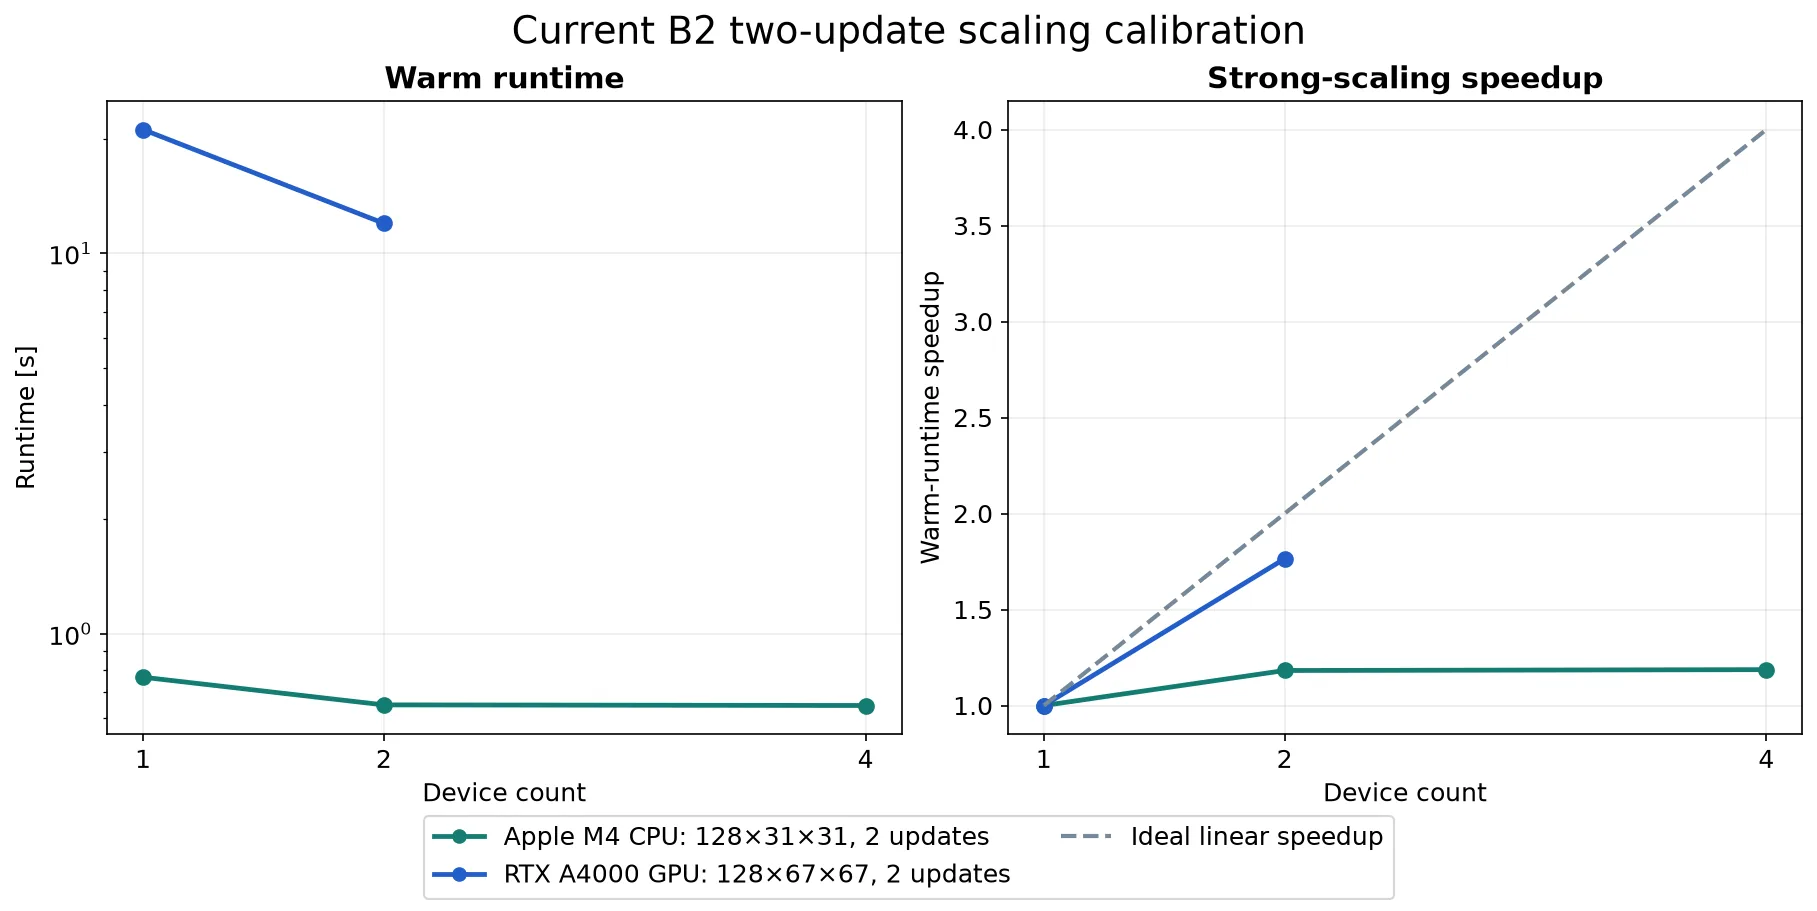
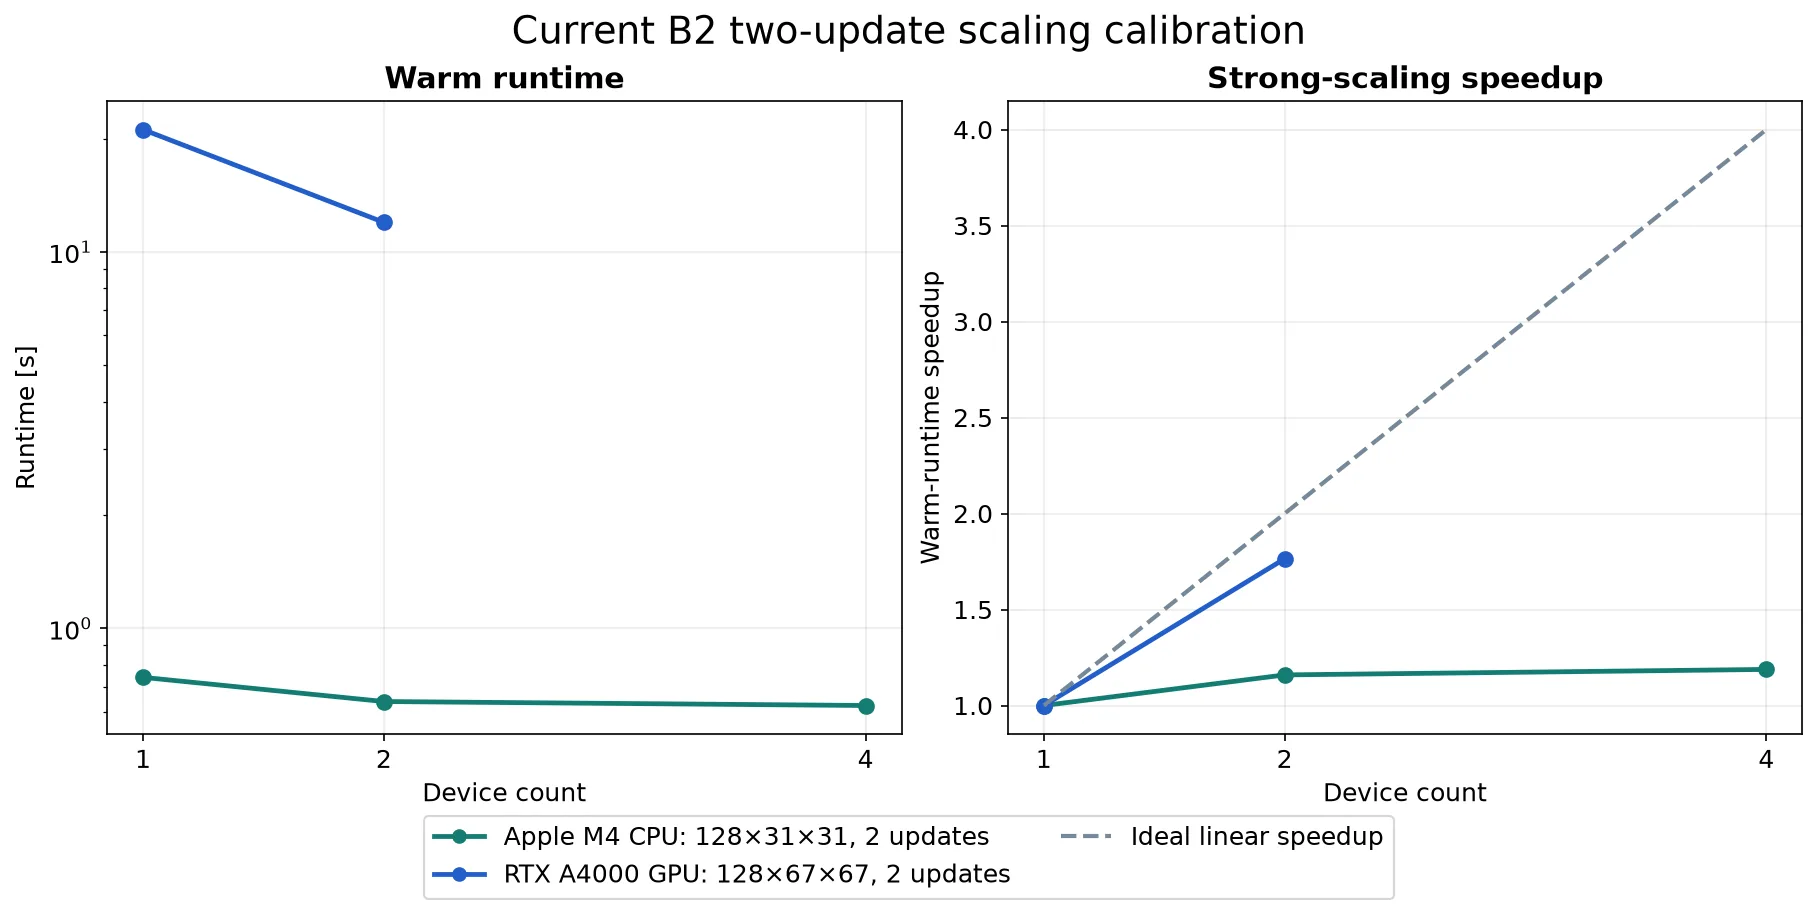
Refresh current B2 CPU scaling

diff --git a/plan.md b/plan.md
@@ -1,7 +1,8 @@
 # LMX authoritative development plan
 
-Status: 2026-07-15. The current source/scaling baseline is `9d28f99`; the latest
-complete portable-gate artifact is keyed to `9636fa7`.
+Status: 2026-07-15. The optimized source and GPU baseline is `9d28f99`, the
+current CPU scaling refresh is keyed to `d9d3f79`, and the latest complete
+portable-gate artifact is keyed to `9636fa7`.
 The exact two-update LMX/FreeMHD B2 smoke, one-/two-/four-CPU-device equivalence,
 deterministic one-/two-GPU equivalence, and portable coverage gate are green.
 The smoke closes bounded orchestration and comparison, not production B2
@@ -105,7 +106,7 @@ package and retiring the undocumented non-projection rectangular autodiff lane
 | maintained-core lines | 8,034 | below 8,000 after smoke cleanup | 8,100 |
 | test files / lines | 31 / 21,282 | no new file; below 21,000 after fixture consolidation | 32 / 21,300 |
 | maintenance scripts | 18 | 17 when the superseded SOLVAX acceptance freezer is retired | 18 |
-| tracked checkout | 3,490,502 bytes | do not increase without a user-facing need | 4,194,304 bytes |
+| tracked checkout | 3,489,557 bytes | do not increase without a user-facing need | 4,194,304 bytes |
 
 These ratchets must come from ownership deletion, shared helpers, or removal of
 superseded behavior—not unreadable formatting or arbitrary test merging.
@@ -183,13 +184,11 @@ most `1.05e-14`. Deterministic GPU correctness uses
 timing lane. Compact
 records are `benchmarks/results/b2-{cpu,gpu}-device-equivalence-20260715.json`.
 
-An explicit one-device request now uses the same named-sharding kernels as the
-multi-device path. With that fair baseline, the accepted pre-current-flux-JIT CPU ladder
-passes validation, placement, exact restart, and device-equivalence gates at
-`16 x 7 x 7`, `64 x 15 x 15`, and `128 x 31 x 31`. The two smaller grids are
-communication-bound. At `128 x 31 x 31`, warm medians are 0.768, 0.649, and
-0.647 seconds on 1/2/4 devices: 1.18x and 1.19x speedups, with no useful gain
-beyond two devices. This is a two-update scaling calibration, not a steady
+An explicit one-device request uses the same named-sharding kernels as the
+multi-device path. On the current source, the `128 x 31 x 31` rung passes
+validation, placement, exact restart, and device-equivalence gates. Warm
+medians are 0.740, 0.639, and 0.623 seconds on 1/2/4 devices: 1.16x and 1.19x
+speedups, with modest gain beyond two devices. This is a two-update scaling calibration, not a steady
 production-speed claim. The compact record is
 `benchmarks/results/b2-cpu-strong-scaling-20260715.json`.
 
@@ -213,9 +212,7 @@ device time was in cuSPARSE tridiagonal kernels reached through SOLVAX line
 preconditioning, versus 2.38% in NCCL. These are incomplete captured shares,
 not phase timings.
 
-First refresh the bounded `128 x 31 x 31` CPU rung on the current source; the
-accepted 1.19x record predates the diagnostic fusion that materially changed
-the sharded path. Then profile one warmed GPU phase at a time with explicit blocking and retain
+Next profile one warmed GPU phase at a time with explicit blocking and retain
 pressure iteration counts through a private diagnostic return only if the
 phase evidence requires them. Retain momentum auxiliary data only after the
 released SOLVAX API supports it without another solve. First reduce line-preconditioner calls

diff --git a/docs/performance.md b/docs/performance.md
@@ -13,7 +13,7 @@ devices alone is not evidence of parallel execution.
 | portable test gate | Apple M4, six workers | 823 pass, 8 skip, 95.00% combined line/branch coverage, 154.0 s | below the five-minute target |
 | exact B2 smoke | Apple M4, `8 x 7 x 7`, 1/2/4 forced CPU devices | pressure observable agrees within `5.3e-15`; closure and exact restart pass | production sharding correctness; too small for scaling claims |
 | exact B2 smoke | 1/2 RTX A4000 GPUs, `8 x 7 x 7`, deterministic XLA | pressure observable agrees within `1.1e-14`; fields, closure, and exact restart pass | production sharding correctness; shared host and tiny grid preclude scaling claims |
-| B2 scaling calibration | Apple M4, `128 x 31 x 31`, 1/2/4 forced CPU devices | 0.768/0.649/0.647 s; 1.18x/1.19x speedup; exact restart and device equivalence pass | pre-current-flux-JIT accepted calibration; refresh pending |
+| B2 scaling calibration | Apple M4, `128 x 31 x 31`, 1/2/4 forced CPU devices | 0.740/0.639/0.623 s; 1.16x/1.19x speedup; exact restart and device equivalence pass | current real solver, two fixed updates; not a steady-production claim |
 | B2 scaling calibration | 1/2 RTX A4000 GPUs, `128 x 67 x 67`, default XLA | 21.14/11.98 s; 1.76x speedup; CV below 0.4%, restart and device equivalence pass | current real solver, two fixed updates; shared-host calibration only |
 | historical SOLVAX PCG equivalence | Apple M4 CPU and RTX A4000 GPU | 0.8.2 forward, gradient, transpose, memory, and Hartmann gates pass; one-shot GPU warm ratio is 1.184 | predates the 0.8.3 package minimum; refresh pending |
 | sharded 3D operator | Apple M4, `516 x 32 x 32` | 1.16x on 2 cores, 1.28x on 4, 0.93x on 6 | actual shard placement verified; surrogate only |

diff --git a/docs/developer_guide.md b/docs/developer_guide.md
@@ -17,11 +17,11 @@ exports and the curated catalog contains 11 workflows. Lightweight import is
 about 19 ms on the audited development machine. Advanced APIs import from their
 owning submodules; see the [migration guide](migration.md).
 
-The current tracked checkout is 3,490,502 bytes, below its 4 MiB hard cap. Sixty-five
+The current tracked checkout is 3,489,557 bytes, below its 4 MiB hard cap. Sixty-five
 generated files larger than 128 KiB were bundled in the versioned release
 indexed by [`release-assets.json`](release-assets.json)
 and removed only after a fresh download passed archive membership, size, and
-SHA-256 verification. Six compressed web derivatives (388,199 bytes total) remain in
+SHA-256 verification. Six compressed web derivatives (389,303 bytes total) remain in
 `docs/_static/` for anonymous documentation access; full-resolution media and
 field bundles remain release assets and never enter the wheel.
 
